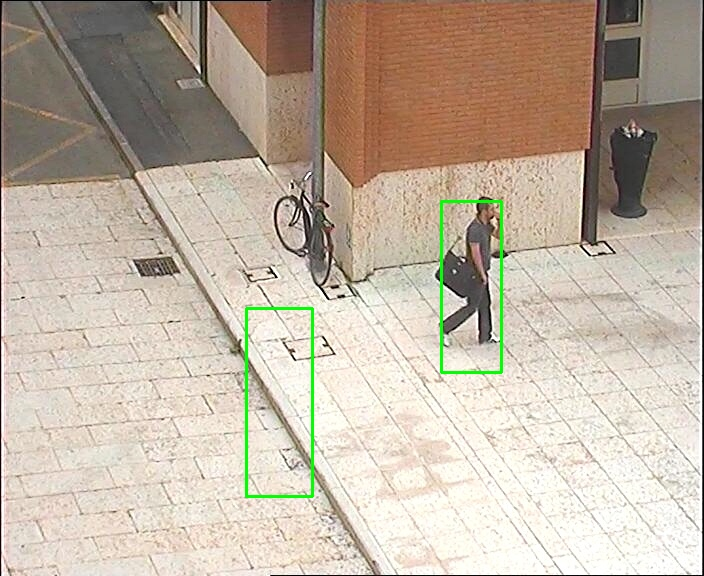
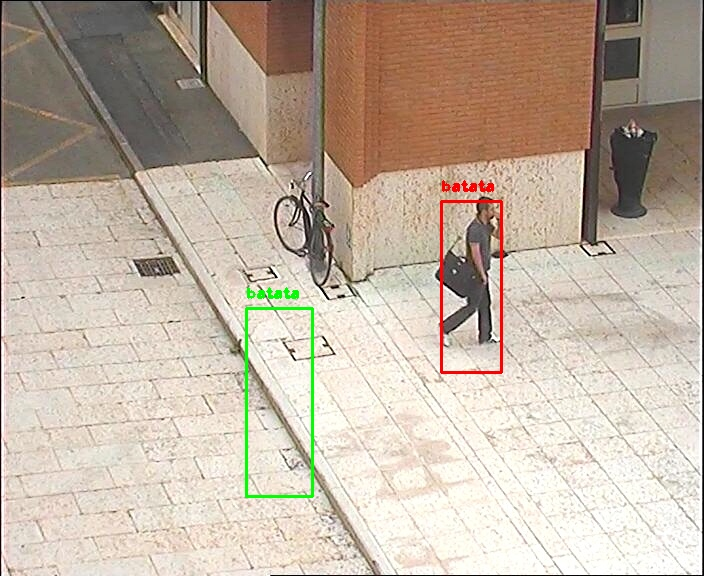
started videotracking module, but is not maintaining target data association yet

Changed region(s): [[0.625, 0.3125, 0.7188, 0.6562], [0.3438, 0.5, 0.4375, 0.5312]]

diff --git a/tracking.py b/tracking.py
@@ -1,0 +1,114 @@
+import cv2
+import cv
+import uuid
+import sys
+import glob
+import numpy as np
+import random
+from matplotlib import pyplot as plt
+######################################
+
+availablecolors = [(255, 0, 0), (0,0,255), (0,255,0)]
+
+class People():
+	def __init__(self, x, y, h, w):
+		self.x = x
+		self.y = y
+		self.h = h
+		self.w = w
+		self.color = availablecolors[random.randint(0,2)]
+		self.label = "batata"
+		
+	def get_label(self):
+		return self.label
+	
+	def drawRect(self, image):
+		cv2.rectangle(image, (self.x, self.y), (self.x+self.w, self.y+self.h), self.color, 2)
+		return True
+		
+	def drawLabel(self, image):
+		cv2.putText(image, self.label, (self.x, self.y-10), cv2.FONT_HERSHEY_PLAIN, 1, self.color, 2);
+		return True
+		
+	def generateHistogram(self):
+		pass
+		
+	def compareHistograms(hist):
+		pass
+	
+def generate_histogram(img):
+	hist,bins = np.histogram(img.flatten(),256,[0,256])
+	
+	#cumulative distribution function calculation
+	cdf = hist.cumsum()
+	
+	plt.plot(cdf_normalized, color = 'b')
+	plt.hist(img.flatten(),256,[0,256], color = 'r')
+	plt.xlim([0,256])
+	plt.legend(('cdf','histogram'), loc = 'upper left')
+	plt.show()
+	
+	return hist
+
+
+def normalize_grayimage(image):
+	image = cv2.equalizeHist(image)
+	cv2.imshow("Equalized img", image)
+	
+	return image
+
+
+
+def main():
+	#Values for statistical evaluation
+	num_ppl = 0
+	num_pos_detections = 0
+	num_false_positivos = 0 
+	num_false_negatives = 0
+	
+	#IMG PATHS
+	images = glob.glob("videotracking/*.jpg")
+	print images 
+	for filename in images:
+		imagePath = filename
+		cascPath = "cascades/haarcascade_pedestrian.xml"
+
+		pplCascade = cv2.CascadeClassifier(cascPath)
+		image = cv2.imread(imagePath)
+		gray = cv2.cvtColor(image, cv2.COLOR_BGR2GRAY)
+		
+		gray = normalize_grayimage(gray)
+		 
+		pedestrians = pplCascade.detectMultiScale(
+			gray,
+			scaleFactor=1.2,
+			minNeighbors=10,
+			minSize=(32,96),
+			flags = cv2.cv.CV_HAAR_SCALE_IMAGE
+		)
+
+		print "Found {0} ppl!".format(len(pedestrians))
+		
+		
+		ppl = []
+		#Draw a rectangle around the detected objects
+		for (x, y, w, h) in pedestrians:
+			ppl.append(People(x,y,h,w))
+		
+		for i in ppl:
+			i.drawRect(image)
+			i.drawLabel(image)
+		
+		outputname = "testoutput/output_"+filename.split("/")[1]
+		cv2.imwrite(outputname, image)
+		#cv2.imshow("Ppl found", image)
+		#cv2.waitKey(0)
+	
+	return 0
+
+
+
+if __name__ == '__main__':
+	main()
+
+

diff --git a/evaluation.py b/evaluation.py
@@ -56,7 +56,7 @@ def main():
 		image = cv2.imread(imagePath)
 		gray = cv2.cvtColor(image, cv2.COLOR_BGR2GRAY)
 		
-		gray = normalize_grayimage(gray)
+		#gray = normalize_grayimage(gray)
 		 
 		pedestrians = pplCascade.detectMultiScale(
 			gray,

diff --git a/detect.py b/detect.py
@@ -30,7 +30,7 @@ def normalize_grayimage(image):
 
 def main():
 	#IMG PATHS
-	imagePath = "test1.jpg"
+	imagePath = "test3.jpg"
 	cascPath = "cascades/haarcascade_pedestrian.xml"
 
 	pplCascade = cv2.CascadeClassifier(cascPath)
